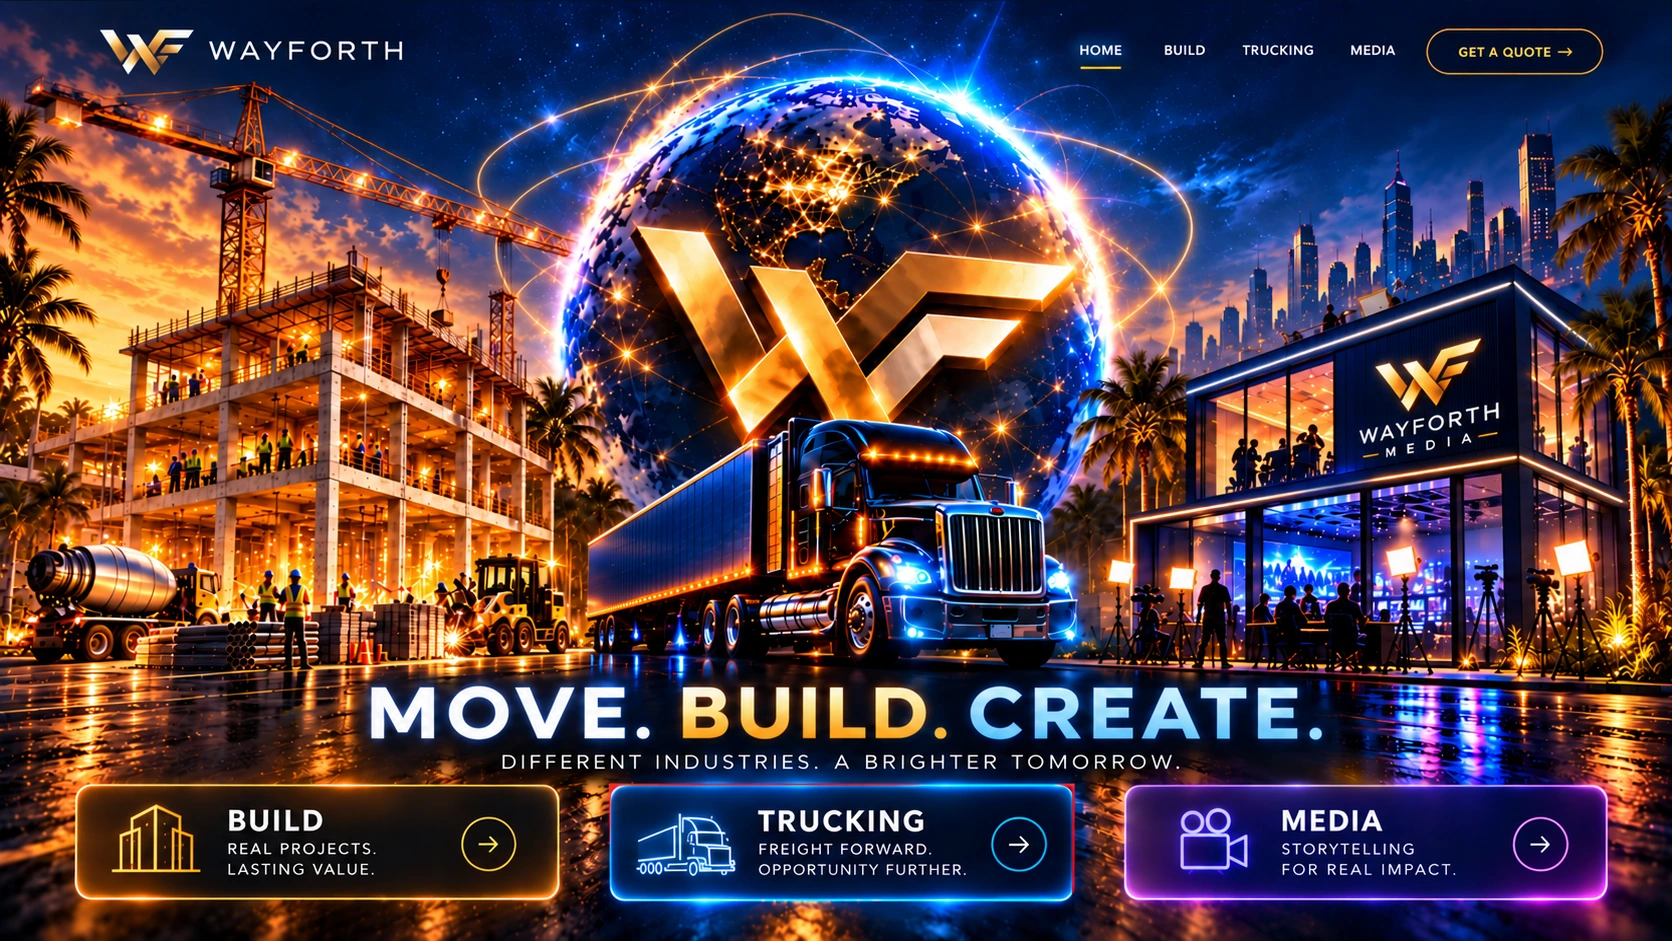
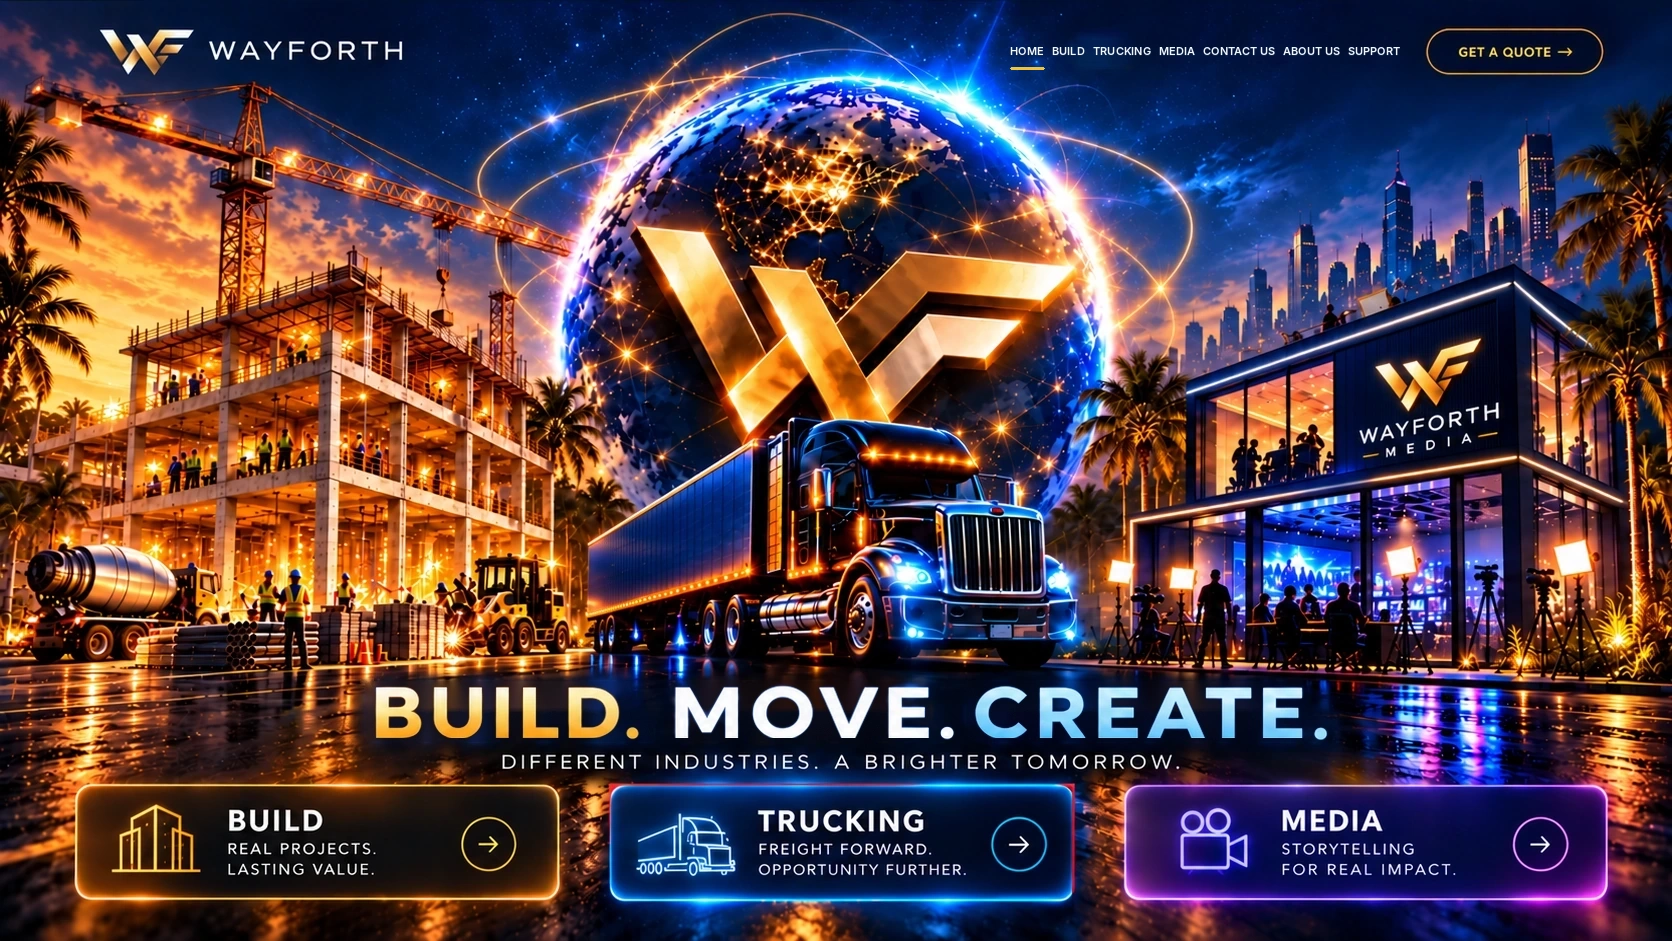
WAYFORTH V5.9 — Final Navigation Slogan and Transition Cleanup
WAYFORTH V5.9 — Final Navigation Slogan and Transition Cleanup

diff --git a/patch-wayforth.js b/patch-wayforth.js
@@ -1,4 +1,4 @@
-/* WAYFORTH V5.8 — final mixer alignment + existing globe-portal landing transition. */
+/* WAYFORTH V5.9 — final navigation/slogan package; native transitions preserved without secondary settle. */
 'use strict';
 const fs=require('fs'),path=require('path');const root=process.cwd(),dist=path.join(root,'dist');
 const file=(n)=>path.join(dist,n);const exists=(n)=>fs.existsSync(file(n));
@@ -12,10 +12,10 @@ let html=read('index.html');
 const original=/<section\s+id=["']scene-home["'][^>]*>[\s\S]*?<\/section>/i;
 if(!original.test(html))throw Error('HOME scene not found. Wrong repository version.');
 if(!exists('wf-home-approved.webp'))throw Error('Missing wf-home-approved.webp');
-html=html.replace(original,`<section id="scene-home" class="scene scene-home is-active" data-scene="home" aria-label="WAYFORTH Home"><div class="wf-final-home"><img class="wf-final-art" src="wf-home-approved.webp" alt="WAYFORTH home" fetchpriority="high"><div id="home-globe" class="wf-final-globe" aria-hidden="true"></div><button class="wf-hotspot wf-home-build" data-open="build" aria-label="Build"></button><button class="wf-hotspot wf-home-trucking" data-open="trucking" aria-label="Trucking"></button><button class="wf-hotspot wf-home-media" data-open="media" aria-label="Media"></button><button class="wf-hotspot wf-home-quote" data-open="quote" aria-label="Quote"></button><div class="wf-mobile-controls"><button data-open="build">BUILD</button><button data-open="trucking">TRUCKING</button><button data-open="media">MEDIA</button><button data-open="quote">GET A QUOTE</button></div></div></section>`);
+html=html.replace(original,`<section id="scene-home" class="scene scene-home is-active" data-scene="home" aria-label="WAYFORTH Home"><div class="wf-final-home"><img class="wf-final-art" src="wf-home-approved.webp" alt="WAYFORTH home" fetchpriority="high"><div id="home-globe" class="wf-final-globe" aria-hidden="true"></div><button class="wf-hotspot wf-top-hotspot wf-top-home" data-open="home" aria-label="Home"></button><button class="wf-hotspot wf-top-hotspot wf-top-build" data-open="build" aria-label="Build"></button><button class="wf-hotspot wf-top-hotspot wf-top-trucking" data-open="trucking" aria-label="Trucking"></button><button class="wf-hotspot wf-top-hotspot wf-top-media" data-open="media" aria-label="Media"></button><button class="wf-hotspot wf-top-hotspot wf-top-contact" data-aux="contact" aria-label="Contact Us"></button><button class="wf-hotspot wf-top-hotspot wf-top-about" data-aux="about" aria-label="About Us"></button><button class="wf-hotspot wf-top-hotspot wf-top-support" data-aux="support" aria-label="Support"></button><button class="wf-hotspot wf-home-build" data-open="build" aria-label="Build"></button><button class="wf-hotspot wf-home-trucking" data-open="trucking" aria-label="Trucking"></button><button class="wf-hotspot wf-home-media" data-open="media" aria-label="Media"></button><button class="wf-hotspot wf-home-quote" data-open="quote" aria-label="Quote"></button><div class="wf-mobile-controls"><button data-open="build">BUILD</button><button data-open="trucking">TRUCKING</button><button data-open="media">MEDIA</button><button data-open="quote">GET A QUOTE</button></div></div></section>`);
 html=html.replace(/WAYFORTH MEDIA × DIGITAL DYNASTY/gi,'WAYFORTH MEDIA').replace(/Choose the part of Digital Dynasty you need\. The studio stays in the scene while the service layer changes around it\./g,'Explore WAYFORTH Media services.').replace(/DIGITAL DYNASTY/gi,'WAYFORTH MEDIA').replace(/<a\s+href=["']https:\/\/digitaldynasty\.media["'][^>]*>[\s\S]*?<\/a>/gi,'').replace(/<img\s+src=["']world-dd\.webp["']\s+alt=["']Digital Dynasty studio["']\s*\/?>/gi,'<img src="wf-media-approved.webp" alt="WAYFORTH Media">');
 const nav=/<nav\b[^>]*class=["']desktop-nav["'][^>]*>[\s\S]*?<\/nav>/i;
-if(nav.test(html))html=html.replace(nav,`<nav class="desktop-nav" aria-label="Primary"><button data-open="home" class="nav-link">Home</button><button data-open="build" class="nav-link">Build</button><button data-open="trucking" class="nav-link">Trucking</button><button data-open="media" class="nav-link">Digital Media</button><button data-aux="contacts" class="nav-link">Contacts</button><button data-aux="about" class="nav-link">About Us</button></nav>`);
+if(nav.test(html))html=html.replace(nav,`<nav class="desktop-nav" aria-label="Primary"><button data-open="home" class="nav-link">Home</button><button data-open="build" class="nav-link">Build</button><button data-open="trucking" class="nav-link">Trucking</button><button data-open="media" class="nav-link">Media</button><button data-aux="contact" class="nav-link">Contact Us</button><button data-aux="about" class="nav-link">About Us</button><button data-aux="support" class="nav-link">Support</button></nav>`);
 
 /* Remove every historical/current motion import before adding exactly one stable pair. */
 html=html.replace(/<link\b[^>]*href=["'][^"']*(?:wf-v48-motion|wf-v50-motion|wf-v51-fix|wf-cinematic|wf-globe-zoomout|wf-stable-motion)[^"']*["'][^>]*>/gi,'')
@@ -32,5 +32,5 @@ write('index.html',html);
 /* BUILD: re-use original materials/cart payload unchanged inside project selector. */
 let data=read('scenes-data.js');let page=fs.existsSync(path.join(root,'wayforth-build-v5.html'))?fs.readFileSync(path.join(root,'wayforth-build-v5.html'),'utf8'):'';
 if(page.includes('__LEGACY_BUILD_BASE64__')){let m=data.match(/(\bbuild\s*:\s*['"])([A-Za-z0-9+/=]+)(['"])/);if(m){let next=Buffer.from(page.replace('__LEGACY_BUILD_BASE64__',m[2]),'utf8').toString('base64');data=data.replace(m[0],m[1]+next+m[3]);write('scenes-data.js',data)}}
-console.log('WAYFORTH V5.8 build OK —',fs.readdirSync(dist).length,'files. V5.7 preserved; mixer alignment + landing portal only.');
-}catch(e){console.error('WAYFORTH V5.8:',e.stack||e);process.exitCode=1}
+console.log('WAYFORTH V5.9 build OK —',fs.readdirSync(dist).length,'files. Cement decal removed; menu + BUILD.MOVE.CREATE asset updated; original scene transitions left unstacked.');
+}catch(e){console.error('WAYFORTH V5.9:',e.stack||e);process.exitCode=1}

diff --git a/wf-stable-motion.js b/wf-stable-motion.js
@@ -1,4 +1,4 @@
-/* WAYFORTH V5.8 — V5.7 preserved; only mixer decal alignment + first-load portal transition adjusted. */
+/* WAYFORTH V5.9 — approved V5.8 visuals preserved; cement decal removed and secondary Home settle removed for smooth native transitions. */
 (()=>{'use strict';
 const home=document.querySelector('.wf-final-home');
 if(!home)return;
@@ -47,7 +47,6 @@ stage.innerHTML=`
   <i class="wf-v55-headlight wf-v55-headlight-low-right"></i>
   <i class="wf-v55-headlight wf-v55-cement-headlight"></i>
   <i class="wf-v55-roof-lights"></i>
-  <img class="wf-v55-cement-logo" src="wf-actual-logo-decal.png" alt="" draggable="false">
 `;
 home.append(stage);
 
@@ -64,25 +63,8 @@ fitStage();
 window.addEventListener('resize',fitStage,{passive:true});
 if(window.ResizeObserver)new ResizeObserver(fitStage).observe(home);
 
-/* Returning from another scene gets only a quick settle. First-load portal is independent
-   and is removed after it finishes, so it cannot replay over an already visible page. */
-if(!reduced){
-  const scene=document.getElementById('scene-home');
-  if(scene){
-    let wasActive=scene.classList.contains('is-active');
-    const sceneObserver=new MutationObserver(()=>{
-      const active=scene.classList.contains('is-active');
-      if(active&&!wasActive){
-        home.classList.remove('wf-v55-home-return');
-        void home.offsetWidth;
-        home.classList.add('wf-v55-home-return');
-        window.setTimeout(()=>home.classList.remove('wf-v55-home-return'),560);
-      }
-      wasActive=active;
-    });
-    sceneObserver.observe(scene,{attributes:true,attributeFilter:['class']});
-  }
-}
+/* Scene-to-scene transitions are intentionally left to the original site transition system.
+   No secondary Home-settle animation is stacked on top. */
 
 /* Boot safety only. It never re-runs the landing animation and never changes a ready page. */
 window.setTimeout(()=>{

diff --git a/wayforth-extra.js b/wayforth-extra.js
@@ -3,12 +3,15 @@
   const heading=overlay.querySelector('[data-aux-title]');
   const description=overlay.querySelector('[data-aux-description]');
   function close(){overlay.classList.remove('open')}
+  const auxCopy={
+    contact:{title:'Contact Us',description:'Need construction, trucking or media support? Start an inquiry and the WAYFORTH team can follow up.'},
+    about:{title:'About WAYFORTH',description:'WAYFORTH brings together construction, freight and trucking, and digital media under one brand focused on dependable execution and lasting partnerships.'},
+    support:{title:'Support',description:'Need help with an inquiry, ongoing project, trucking request or media service? Contact WAYFORTH and our team can guide you to the right next step.'}
+  };
   document.querySelectorAll('[data-aux]').forEach(button=>button.addEventListener('click',()=>{
-    const about=button.dataset.aux==='about';
-    heading.textContent=about?'About WAYFORTH':'Contact WAYFORTH';
-    description.textContent=about
-      ? 'WAYFORTH brings together construction materials in Lahore, freight and trucking operations, and Digital Media. We focus on dependable service, clear communication and lasting partnerships.'
-      : 'Need construction materials, trucking support or digital media services? Start an inquiry and our team can follow up. Contact numbers will be verified before public launch.';
+    const copy=auxCopy[button.dataset.aux]||auxCopy.contact;
+    heading.textContent=copy.title;
+    description.textContent=copy.description;
     overlay.classList.add('open');
   }));
   overlay.querySelector('[data-aux-close]').addEventListener('click',close);

diff --git a/wf-stable-motion.css b/wf-stable-motion.css
@@ -1,4 +1,4 @@
-/* WAYFORTH V5.8 — exact mixer-logo alignment + existing globe-portal style on first load. */
+/* WAYFORTH V5.9 — V5.8 motion preserved; cement decal removed and native scene transitions left unstacked. */
 .wf-final-home{isolation:isolate;overflow:hidden;}
 .wf-final-art{position:absolute;inset:0;width:100%;height:100%;object-fit:contain;object-position:center;filter:none;transform-origin:center;backface-visibility:hidden;}
 
@@ -134,16 +134,7 @@ html.wf-v55-boot body.ready #scene-home .wf-v55-stage{animation:wf55-stage-in 1.
   animation:wf55-roof-lights 3.15s ease-in-out infinite;}
 @keyframes wf55-roof-lights{0%,100%{opacity:.27;filter:brightness(.9)}45%,58%{opacity:.71;filter:brightness(1.28)}}
 
-/* Correct cement mixer decal: transparent YELLOW/GOLD WF only — no blue square/background. */
-.wf-v55-cement-logo{
-  left:4.70%;top:60.72%;width:4.15%;height:auto;object-fit:contain;opacity:.98;
-  transform:rotate(1deg) skewX(-2deg);transform-origin:center;
-  filter:drop-shadow(0 1px 1px rgba(46,25,2,.58)) drop-shadow(0 0 2px rgba(255,188,48,.22));
-}
-
-/* Short settle on return to Home; no full landing replay. */
-.wf-v55-home-return .wf-v55-stage{animation:wf55-home-return .52s ease-out both;}
-@keyframes wf55-home-return{0%{opacity:.22;filter:brightness(.82)}100%{opacity:1;filter:brightness(1)}}
+/* No secondary Home-return animation: original site transition remains the only transition layer. */
 
 @media(max-aspect-ratio:13/10){
   .wf-v55-stage{display:none!important}

diff --git a/wayforth-extra.css b/wayforth-extra.css
@@ -1,6 +1,6 @@
-/* WAYFORTH V4.3: exactly requested primary labels, responsive spacing. */
-.desktop-nav{gap:clamp(3px,.72vw,12px)!important}
-.desktop-nav .nav-link{font-size:clamp(9px,.75vw,12px)!important;letter-spacing:.04em!important;padding:10px clamp(4px,.5vw,10px)!important;white-space:nowrap}
+/* WAYFORTH V5.9: seven requested primary labels, responsive spacing. */
+.desktop-nav{gap:clamp(2px,.48vw,8px)!important;flex-wrap:nowrap!important}
+.desktop-nav .nav-link{font-size:clamp(8px,.66vw,11px)!important;letter-spacing:.035em!important;padding:9px clamp(3px,.34vw,7px)!important;white-space:nowrap}
 .wf-aux-overlay{position:fixed;inset:0;z-index:40000;background:rgba(2,6,13,.78);display:none;place-items:center;padding:22px;backdrop-filter:blur(10px)}
 .wf-aux-overlay.open{display:grid}
 .wf-aux-content{width:min(510px,100%);border:1px solid rgba(240,199,122,.60);border-radius:19px;padding:clamp(20px,4vw,33px);background:linear-gradient(140deg,#0b294b,#020813);color:white;box-shadow:0 20px 95px #0009}

diff --git a/wf-approved-home.css b/wf-approved-home.css
@@ -6,6 +6,16 @@
 .wf-final-globe img{width:100%;height:100%;object-fit:contain}
 .wf-hotspot{position:absolute;z-index:10;padding:0;margin:0;border:0;background:transparent;color:transparent;cursor:pointer;touch-action:manipulation;-webkit-tap-highlight-color:transparent}
 .wf-hotspot:focus-visible{outline:3px solid #ffcf78;outline-offset:3px;border-radius:12px;background:#fff1}
+
+/* V5.9 transparent top-menu hit areas aligned to the approved baked menu artwork. */
+.wf-top-hotspot{top:3.8%;height:4.1%;z-index:12}
+.wf-top-home{left:60.3%;width:2.5%}
+.wf-top-build{left:62.8%;width:2.4%}
+.wf-top-trucking{left:65.2%;width:3.9%}
+.wf-top-media{left:69.1%;width:2.6%}
+.wf-top-contact{left:71.8%;width:4.8%}
+.wf-top-about{left:76.5%;width:4.1%}
+.wf-top-support{left:80.5%;width:3.5%}
 .wf-home-build{left:4.2%;top:81.4%;width:29.8%;height:14.1%}
 .wf-home-trucking{left:36%;top:81.4%;width:28.3%;height:14.1%}
 .wf-home-media{left:66.3%;top:81.4%;width:30%;height:14.1%}
